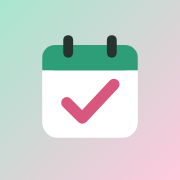
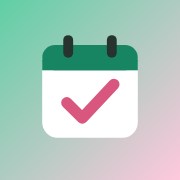
Đổi xanh bạc hà sang tông đậm hơn
Claude-Session: https://claude.ai/code/session_01W5H7AkeABsvRUwfRwjsXmN

diff --git a/style.css b/style.css
@@ -1,8 +1,8 @@
 /* ===== BẢNG MÀU PASTEL (đổi ở đây là đổi cả app) ===== */
 :root {
-  --bac-ha: #a8e6cf;        /* xanh bạc hà */
-  --bac-ha-nhat: #e3f7ef;
-  --bac-ha-dam: #2e9e78;    /* xanh bạc hà đậm: dùng cho chữ, nút */
+  --bac-ha: #5fcfa5;        /* xanh bạc hà */
+  --bac-ha-nhat: #cdf1e3;
+  --bac-ha-dam: #178562;    /* xanh bạc hà đậm: dùng cho chữ, nút */
   --hong: #ffc8dd;          /* hồng phấn */
   --hong-nhat: #ffeef4;
   --hong-dam: #d9577f;      /* hồng đậm: dùng cho chữ, điểm nhấn */
@@ -11,8 +11,8 @@
   --chu: #26332f;
   --chu-nhat: #7b8a85;
   --vien: #e6eeeb;
-  --bong: 0 8px 24px rgba(46, 158, 120, 0.10);
-  --nut-chinh: #2e9e78;     /* nền nút chính, luôn đi với chữ trắng */
+  --bong: 0 8px 24px rgba(23, 133, 98, 0.14);
+  --nut-chinh: #178562;     /* nền nút chính, luôn đi với chữ trắng */
   --chu-tren-bac-ha: #17463a;
   --chu-tren-hong: #4a1d2c;
 }
@@ -20,9 +20,9 @@
 /* Tự đổi sang nền tối nếu điện thoại đang bật chế độ tối */
 @media (prefers-color-scheme: dark) {
   :root {
-    --bac-ha: #3f7f69;
-    --bac-ha-nhat: #1f302a;
-    --bac-ha-dam: #8be0bf;
+    --bac-ha: #2f8f6e;
+    --bac-ha-nhat: #1d3a30;
+    --bac-ha-dam: #7fe0b9;
     --hong: #8a4a60;
     --hong-nhat: #33222a;
     --hong-dam: #f6a3bf;
@@ -296,7 +296,7 @@ button { font-family: inherit; cursor: pointer; }
   height: 64px;
   border-radius: 22px;
   border: none;
-  background: linear-gradient(135deg, var(--nut-chinh), #5cc9a3);
+  background: linear-gradient(135deg, var(--nut-chinh), #3fbf8f);
   color: white;
   font-size: 34px;
   line-height: 1;

diff --git a/index.html b/index.html
@@ -13,7 +13,7 @@
 
   <!-- Thông tin để cài app vào màn hình chính -->
   <link rel="manifest" href="manifest.json">
-  <meta name="theme-color" content="#eafaf4">
+  <meta name="theme-color" content="#cdf1e3">
   <link rel="icon" href="icons/icon.svg" type="image/svg+xml">
   <link rel="apple-touch-icon" href="icons/icon-180.png">
   <meta name="apple-mobile-web-app-capable" content="yes">

diff --git a/sw.js b/sw.js
@@ -7,7 +7,7 @@
 // để điện thoại biết mà tải bản mới.
 // =====================================================
 
-const PHIEN_BAN = "viec-hom-nay-v3";
+const PHIEN_BAN = "viec-hom-nay-v4";
 
 const CAC_FILE = [
   "./",
